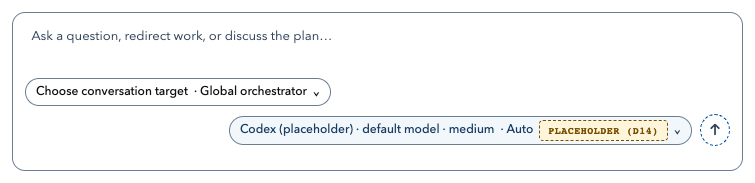
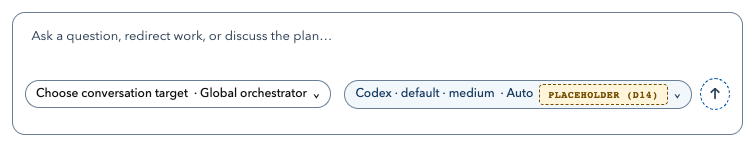
fix(desktop): DPES-1105 - Shorten the model chip label so it fits at 960 px
At 960 CSS px the chip with its level needs about 430 px, and about 350 px is left beside the conversation target. The chip now shows a short label, for example `Codex · default · medium · Auto`. A word that is default in both parts reads once. A fixture agent's chip drops its "(placeholder)" qualifier, because the placeholder badge already says so.

The full words stay in the popover and in the chip's accessible name. The composer row is back to one line (workspace.css matches main again), so the wrap from the earlier commit is reverted.

The geometry check now measures the label, level and badge: none is clipped, all sit on one line, and the chip ends before the send button. The Vitest cases cover the label for both defaults, a chosen model, a chosen effort, and each level. The name list and VITEST are regenerated from a full JSON run: 76 files and 1634 tests.

diff --git a/apps/desktop/src/ui/views/workspace/ModelPicker.test.tsx b/apps/desktop/src/ui/views/workspace/ModelPicker.test.tsx
@@ -78,7 +78,7 @@ describe("ModelPicker permission level in a chat", () => {
       />,
     );
     const chip = screen.getByRole("button", { name: "Model settings: Codex · default model · default effort · Auto" });
-    expect(chip).toHaveTextContent("Codex · default model · default effort · Auto");
+    expect(chip).toHaveTextContent("Codex · default · Auto");
     await user.click(chip);
     const level = screen.getByRole("combobox", { name: "Permission level" });
     expect(level).toHaveValue("auto");
@@ -110,6 +110,75 @@ describe("ModelPicker permission level in a chat", () => {
     expect(onChange).not.toHaveBeenCalled();
     expect(chip).toHaveFocus();
     expect(chip).toHaveAttribute("aria-expanded", "false");
+  });
+
+  it("reads the model and effort in the chip as chosen or default, with the full words in the accessible name", async () => {
+    const user = userEvent.setup();
+    render(
+      <ModelPicker
+        catalog={catalog([provider("codex", "Codex")])}
+        provenance={provenance}
+        permission={{ level: "auto", daemonAdvertises: true, onChange: vi.fn() }}
+      />,
+    );
+    const chip = () => screen.getByRole("button", { name: /^Model settings/ });
+    // Both default: one word covers both.
+    expect(chip()).toHaveTextContent("Codex · default · Auto");
+    expect(chip()).toHaveAccessibleName("Model settings: Codex · default model · default effort · Auto");
+    await user.click(chip());
+    // The default model with a chosen effort: "default" names the model, and the effort is the one chosen.
+    await user.selectOptions(screen.getByRole("combobox", { name: "Effort" }), "high");
+    await waitFor(() => expect(chip()).toHaveTextContent("Codex · default · high · Auto"));
+    expect(chip()).toHaveAccessibleName("Model settings: Codex · default model · high · Auto");
+    // A chosen model keeps its label. Choosing a model clears the effort, so the default effort shows its words.
+    await user.selectOptions(screen.getByRole("combobox", { name: "Model" }), "m1");
+    await waitFor(() => expect(chip()).toHaveTextContent("Codex · Model one · default effort · Auto"));
+    expect(chip()).toHaveAccessibleName("Model settings: Codex · Model one · default effort · Auto");
+    // Both chosen.
+    await user.selectOptions(screen.getByRole("combobox", { name: "Effort" }), "high");
+    await waitFor(() => expect(chip()).toHaveTextContent("Codex · Model one · high · Auto"));
+    expect(chip()).toHaveAccessibleName("Model settings: Codex · Model one · high · Auto");
+  });
+
+  it.each([
+    ["restricted", "Restricted"],
+    ["extended", "Extended"],
+    ["auto", "Auto"],
+    ["full", "Full"],
+  ] as const)("shows the %s level as its label at the end of the chip", (level, label) => {
+    render(
+      <ModelPicker
+        catalog={catalog([provider("codex", "Codex")])}
+        provenance={provenance}
+        permission={{ level, daemonAdvertises: true, onChange: vi.fn() }}
+      />,
+    );
+    const chip = screen.getByRole("button", { name: /^Model settings/ });
+    expect(chip).toHaveTextContent(`Codex · default · ${label}`);
+    expect(chip).toHaveAccessibleName(`Model settings: Codex · default model · default effort · ${label}`);
+  });
+
+  it("shows a fixture agent without its placeholder qualifier, and keeps the qualifier in the accessible name", () => {
+    const fixture = { kind: "fixture", id: "D14", fixture: "model-catalog" } as const;
+    const fixtureCatalog: SurfaceResult<{ providers: ModelProvider[] }> = {
+      status: "ok",
+      data: { providers: [provider("codex", "Codex (placeholder)")] },
+      provenance: fixture,
+      ...observed,
+    };
+    render(
+      <ModelPicker
+        catalog={fixtureCatalog}
+        provenance={fixture}
+        permission={{ level: "auto", daemonAdvertises: true, onChange: vi.fn() }}
+      />,
+    );
+    const chip = screen.getByRole("button", { name: /^Model settings/ });
+    expect(within(chip).getByText("Codex · default · high")).toBeInTheDocument();
+    expect(within(chip).getByText("PLACEHOLDER (D14)")).toBeInTheDocument();
+    expect(chip).toHaveAccessibleName(
+      "Model settings: Codex (placeholder) · default model · high · Auto PLACEHOLDER (D14)",
+    );
   });
 
   it("shows no level, and offers no level control, where no message runs", async () => {

diff --git a/apps/desktop/src/ui/views/workspace/ModelPicker.tsx b/apps/desktop/src/ui/views/workspace/ModelPicker.tsx
@@ -56,17 +56,25 @@ function sentence(text: string): string {
 }
 
 /** The model part of the chip: the chosen model, the default model, or an honest "not confirmed". */
-function modelChip(provider: ModelProvider, model: ModelOption | undefined): string {
+function modelChip(provider: ModelProvider, model: ModelOption | undefined, defaultWord = "default model"): string {
   if (model) return model.label;
   switch (provider.models.status) {
     case "ok":
     case "unsupported":
-      return "default model";
+      return defaultWord;
     case "unavailable":
       return "models unavailable";
     default:
       return "models not confirmed";
   }
+}
+
+/**
+ * The agent's name as the chip shows it. A trailing qualifier such as "(placeholder)" is dropped, because the chip's
+ * placeholder badge already says so. The popover and the accessible name keep the full name.
+ */
+function chipName(name: string): string {
+  return name.replace(/\s*\([^()]*\)$/, "");
 }
 
 /** Helper text under the Model select, or null when there is nothing to say. */
@@ -142,10 +150,17 @@ export function ModelPicker({
     chosenEffort = efforts.includes(effort ?? "") ? effort : (efforts[1] ?? efforts[0] ?? null);
   }
 
+  const effortText = chosenEffort ?? (live ? "default effort" : "effort not available");
   const modelSummary =
-    provider === undefined
-      ? "Model settings unavailable"
-      : `${provider.name} · ${modelChip(provider, model)} · ${chosenEffort ?? (live ? "default effort" : "effort not available")}`;
+    provider === undefined ? "Model settings unavailable" : `${provider.name} · ${modelChip(provider, model)} · ${effortText}`;
+  // The chip's visible text is shorter than the full summary, so it fits beside the conversation target at 960 CSS px.
+  // "default model" reads "default", and one "default" stands for a live choice that is default in both parts.
+  let chipText = modelSummary;
+  if (provider !== undefined) {
+    const chipModel = modelChip(provider, model, "default");
+    const bothDefault = live && model === undefined && chosenEffort === null && chipModel === "default";
+    chipText = `${chipName(provider.name)} · ${bothDefault ? "default" : `${chipModel} · ${effortText}`}`;
+  }
   const levelLabel = permission ? permissionLabel(permission.level) : null;
   const summary = levelLabel ? `${modelSummary} · ${levelLabel}` : modelSummary;
 
@@ -262,7 +277,7 @@ export function ModelPicker({
         aria-label={`Model settings: ${summary}${!live && catalog.status === "ok" ? ` ${triggerBadge}` : ""}`}
         onClick={() => popover.setOpen((value) => !value)}
       >
-        <span>{modelSummary}</span>
+        <span>{chipText}</span>
         {levelLabel && <span className="ws-chip-level"> · {levelLabel}</span>}
         {!live && catalog.status === "ok" && (
           <>

diff --git a/apps/desktop/e2e/geometry.spec.ts b/apps/desktop/e2e/geometry.spec.ts
@@ -430,18 +430,27 @@ for (const [width, height] of [
   });
 }
 
-test("the model chip keeps its text and its permission level whole, on one line left of the send button, at 960 CSS px", async ({ page }) => {
+test("the model chip's label, level and badge are whole and on one line beside the target, at 960 CSS px", async ({ page }) => {
   await openFixture(page, 960);
   const chip = page.locator(".ws-model-root > .ws-chip-button");
-  const model = chip.locator("span").first();
+  const target = page.locator(".ws-composer-row > .ws-popover-root:not(.ws-model-root) > .ws-chip-button");
+  const label = chip.locator(":scope > span").first();
   const level = chip.locator(".ws-chip-level");
-  await expect(level).toBeVisible();
-  expect(await model.evaluate((el) => el.scrollWidth <= el.clientWidth), "model text is not truncated").toBe(true);
-  expect(await level.evaluate((el) => el.scrollWidth <= el.clientWidth), "permission level is not truncated").toBe(true);
+  const badge = chip.locator(".ui-badge");
+  await expect(chip).toContainText("Codex · default · medium · Auto");
+  for (const [name, part] of [
+    ["label", label],
+    ["level", level],
+    ["badge", badge],
+  ] as const) {
+    expect(await part.evaluate((el) => el.scrollWidth <= el.clientWidth), `${name} is not clipped`).toBe(true);
+    expect((await part.boundingBox())!.height, `${name} is one line`).toBeLessThan(24);
+  }
   const chipBox = (await chip.boundingBox())!;
+  const targetBox = (await target.boundingBox())!;
   const sendBox = (await page.locator(".ws-composer .ws-send").boundingBox())!;
-  expect(chipBox.height, "chip stays on one line").toBeLessThan(40);
-  expect(chipBox.x + chipBox.width, "chip ends before the send button").toBeLessThanOrEqual(sendBox.x);
+  expect(Math.abs(chipBox.y - targetBox.y), "the chip sits on the target's row, not a new one").toBeLessThan(2);
+  expect(chipBox.x + chipBox.width, "the chip ends before the send button").toBeLessThanOrEqual(sendBox.x);
 });
 
 test.describe("connection strip collapse (DPES-1105)", () => {

diff --git a/apps/desktop/src/ui/views/workspace/workspace.css b/apps/desktop/src/ui/views/workspace/workspace.css
@@ -183,11 +183,10 @@
   opacity: 1;
 }
 
-/* The target and the send button share the first row. When the model chip (with its permission level) cannot fit
-   beside the target, it wraps to a row of its own with the send button, so its text is not cut (DPES-1105). */
+/* One row at every width: the chips shrink and truncate instead of wrapping the send button away. */
 .ws-composer-row {
   display: flex;
-  flex-wrap: wrap;
+  flex-wrap: nowrap;
   align-items: center;
   gap: 8px;
 }
@@ -201,8 +200,8 @@
   margin-left: auto;
 }
 
-/* The conversation target names the thread, so it keeps its width. The model chip keeps its natural width and wraps
-   instead of shrinking. The column beside the conversation (shell.css) makes the row narrower than the full window. */
+/* The conversation target names the thread, so it keeps its width; the model chip gives up space first.
+   The column beside the conversation (shell.css) makes the row narrower than the full window. */
 .ws-composer-row .ws-popover-root:not(.ws-model-root) {
   flex: none;
 }

diff --git a/docs/design/agent-permission-levels.md b/docs/design/agent-permission-levels.md
@@ -133,7 +133,7 @@ The safe outcome is always denial. A turn never retries at another level and nev
 ## Default, scope, persistence and confirmation
 
 - **Default.** Auto for chats and tasks, for all three agents (D1). The task form starts at Auto and can be changed at submit.
-- **Chip.** The model picker chip beside the composer ends with the level the next message will use, for example `Codex · default model · default effort · Auto`. The level is chosen in the chip's panel, which lists the four levels. Extended, and on an older daemon every level but Restricted, stay listed disabled with the reason. The daemon-reported level of the last turn is shown below the composer row. The task form (PR C) takes the same control, and task lists show each task's level. The always-visible indicator and the one-click switch to Restricted were removed at the user's request (DPES-1105, after the PR #82 review), so the chip and its panel are the only place the level is shown and changed.
+- **Chip.** The model picker chip beside the composer ends with the level the next message will use. Its visible label is short, for example `Codex · default · medium · Auto`, so it fits beside the conversation target at 960 CSS px without wrapping or clipping. A word that is default in both parts reads once (`Codex · default · Auto`). The accessible name and the panel carry the full words (`Codex · default model · medium · Auto`). A fixture agent's chip drops its placeholder qualifier, because the placeholder badge already says so. The level is chosen in the chip's panel, which lists the four levels. Extended, and on an older daemon every level but Restricted, stay listed disabled with the reason. The daemon-reported level of the last turn is shown below the composer row. The task form (PR C) takes the same control, and task lists show each task's level. The always-visible indicator and the one-click switch to Restricted were removed at the user's request (DPES-1105, after the PR #82 review), so the chip and its panel are the only place the level is shown and changed.
 - **Auto disclosure (removed).** The "What automatic review does" disclosure and its per-agent texts (Codex, Claude, Copilot) were removed from the UI at the user's request (DPES-1105). The Full confirmation still says that automatic review at Auto is not a guarantee.
 - **Full.** Confirmation each time Full is chosen, for chats and for each task submit. Focus starts on Cancel. Text: Codex: "Codex runs with your own ~/.codex settings. MCAO adds no sandbox or approval flags, so the settings in that config decide what runs." Claude: "Claude Code skips its permission checks and uses your own Claude settings and hooks. It can run any tool your account allows." Copilot: "Copilot can run any shell command, edit any file your account can, reach any URL, and use your own Copilot settings and hooks. No OS sandbox is applied. Copilot cannot ask you anything during the run." Tasks add: "This task runs unattended after you submit. Objective: `<text>`. Worktree: `<path>`."
 - **Displayed level.** Each turn and task shows the level the daemon reports it ran with, not the level chosen. A mismatch shows an error.
